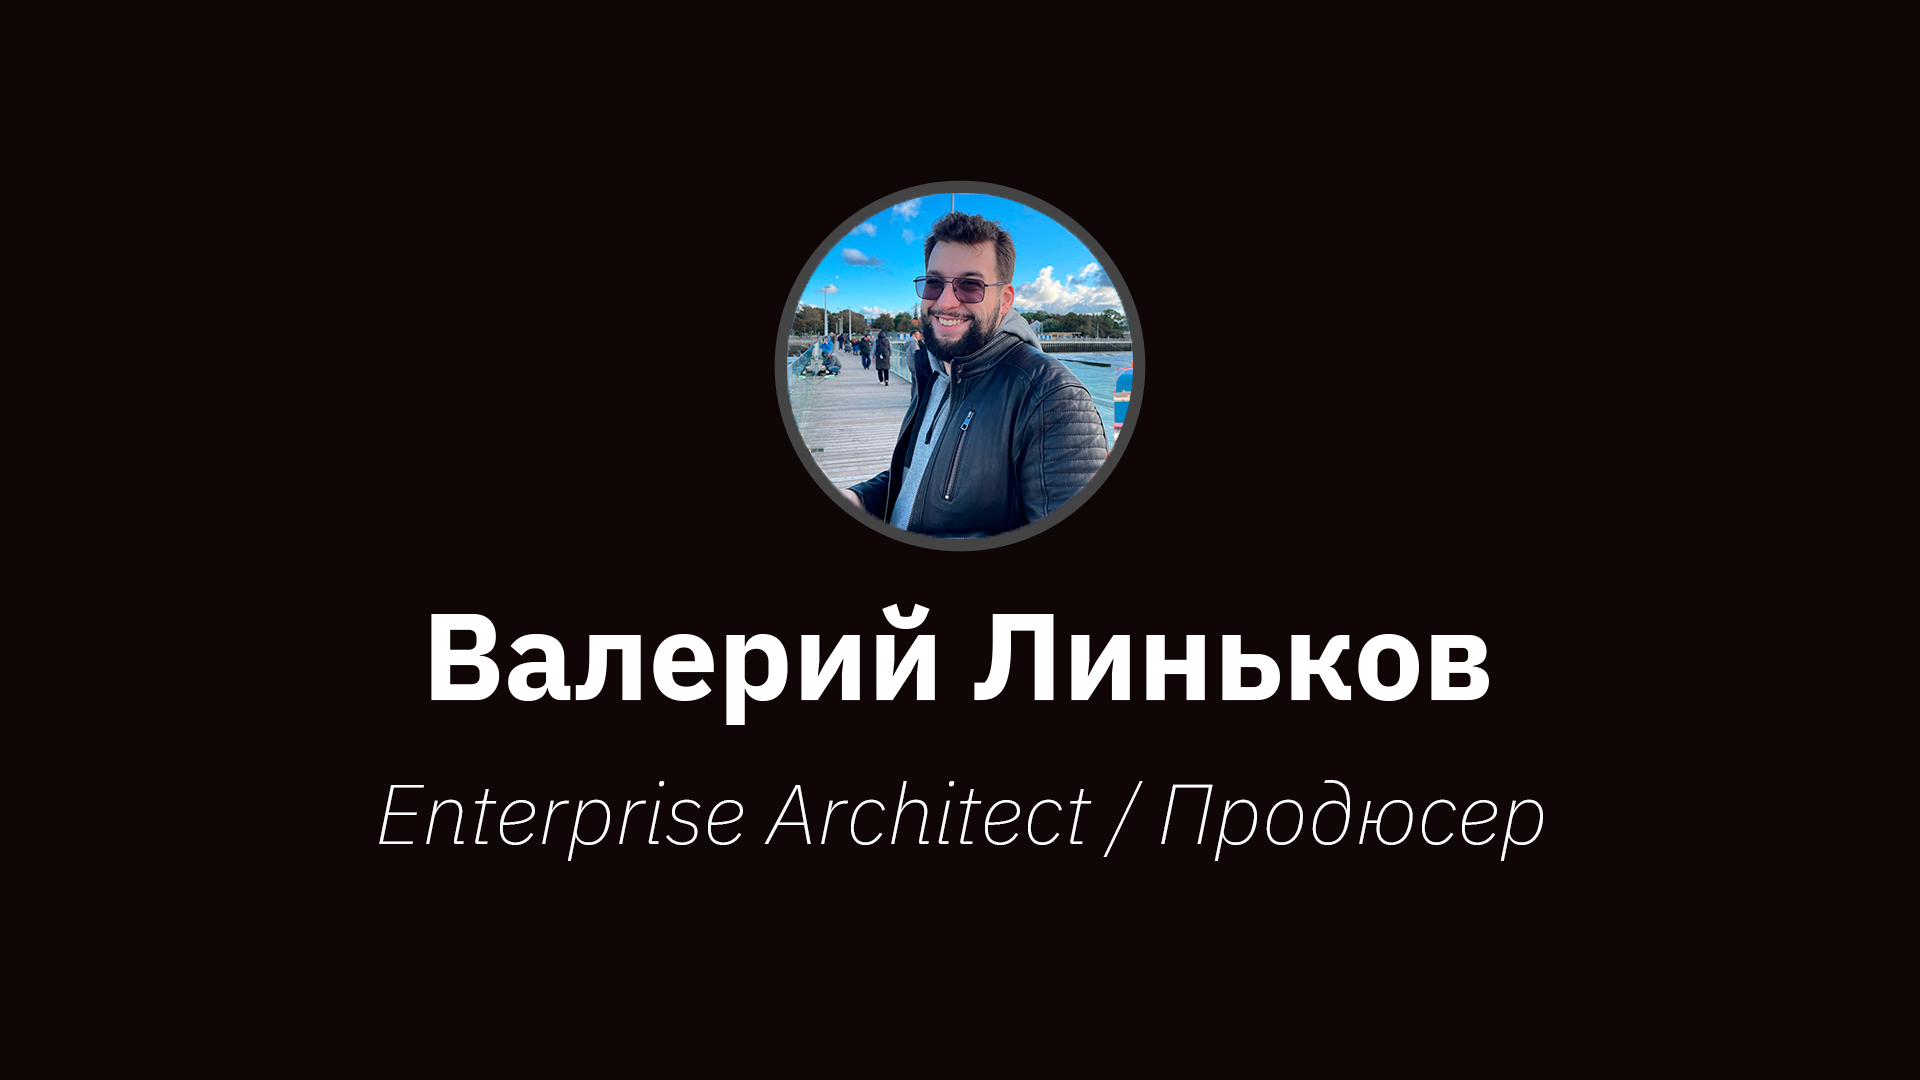
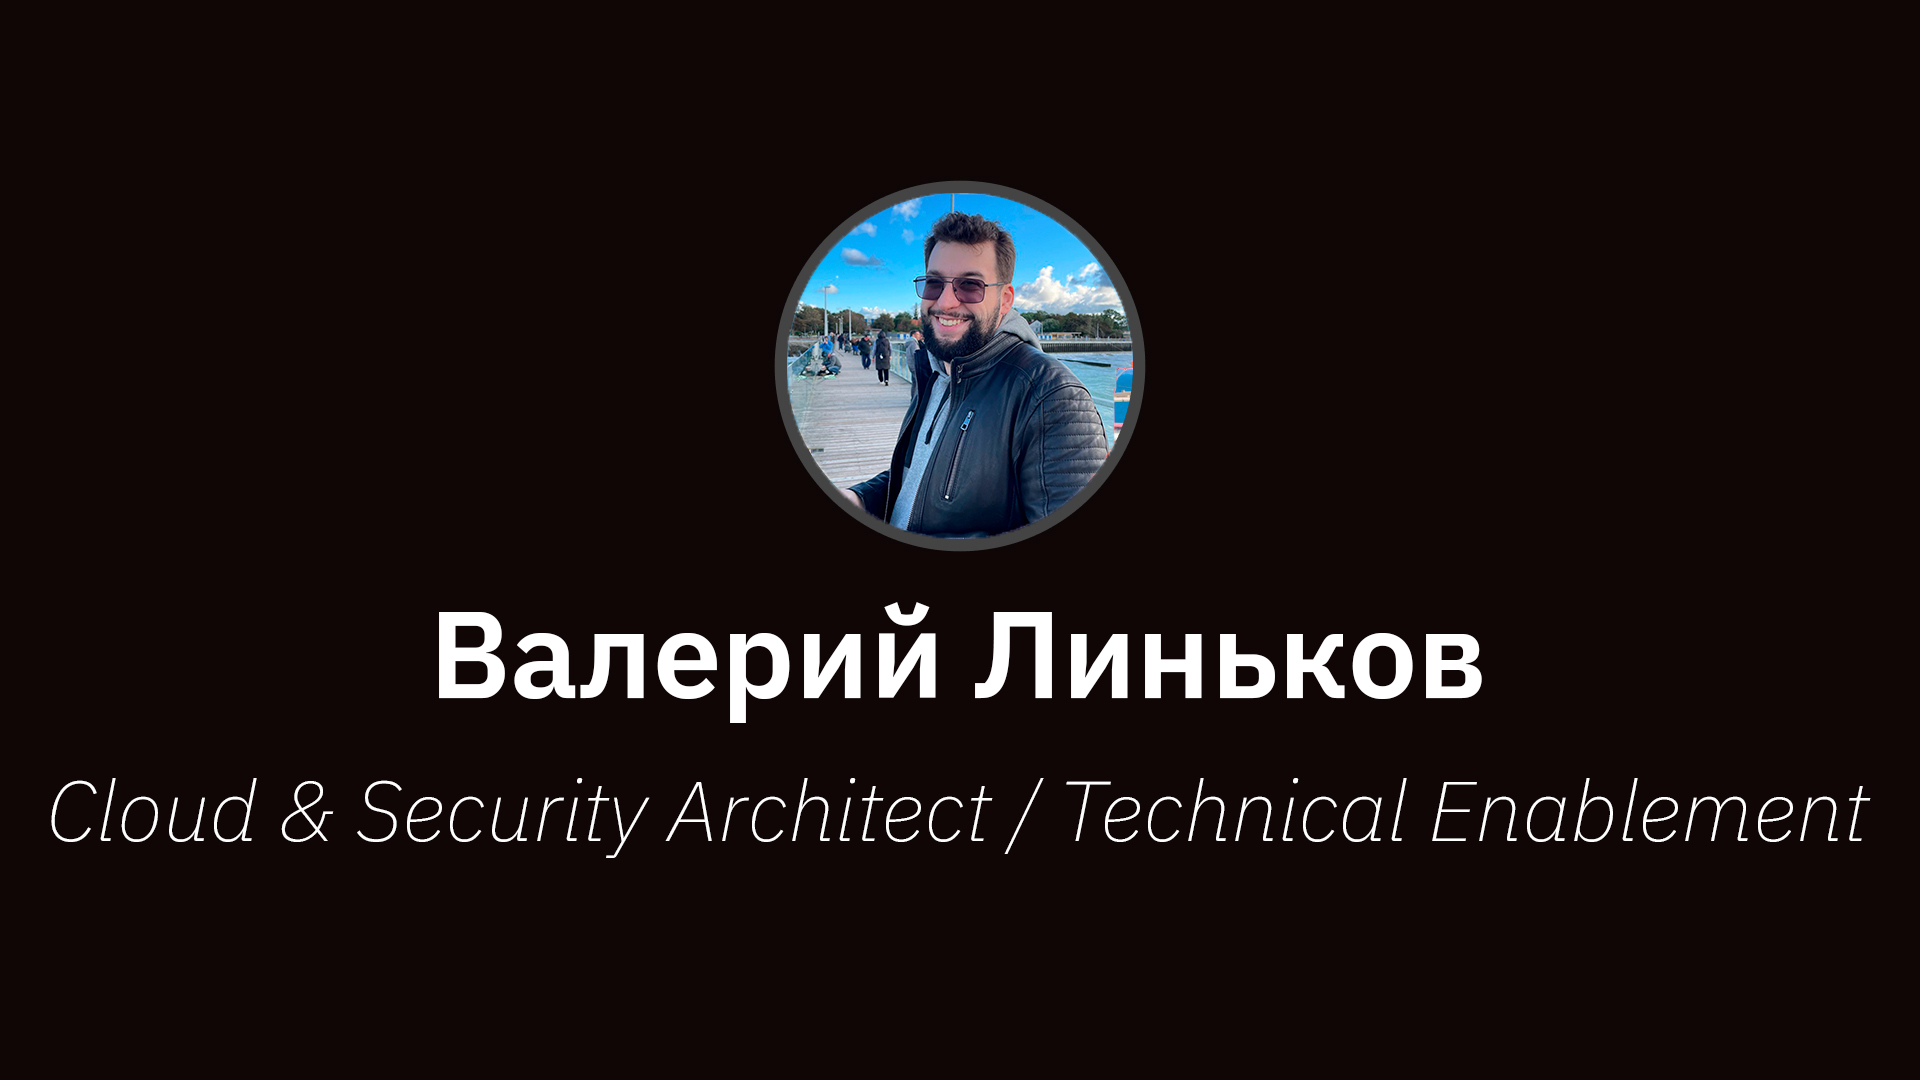
Some more fix

diff --git a/src/lib/constants/profile.ts b/src/lib/constants/profile.ts
@@ -5,10 +5,10 @@ export const PROFILE_INFO = {
   displayName: "Валерий Линьков",
   email: "valerylinkov2504@yandex.ru",
   about: `
-  Проектирую облачную инфраструктуру и системы безопасности и помогаю командам внедрять их в работу — так, чтобы решения были поняты, приняты и поддерживались в реальной эксплуатации.
-  
-  Работаю с архитектурой, аутентификацией и управлением доступами, а также с инженерными процессами и обучением команд. Моя зона — сложные системы, рост, требования к безопасности и ситуации, где «формально всё есть, но на практике не работает».
-  
+  Проектирую облачную инфраструктуру и системы безопасности. Помогаю командам внедрять их в работу так, чтобы решения были поняты, приняты и поддерживались в реальной эксплуатации.
+
+  Работаю с архитектурой, аутентификацией и управлением доступами, а также с инженерными процессами и обучением команд. Моя зона — настроить систему так, чтобы с ней было легко и понятно работать и чтобы она соответствовала всем требованиям безопасности и масштабируемости.
+
   Занимаюсь архитектурными аудитами, консалтингом и technical enablement: объясняю решения, выстраиваю подходы и помогаю командам работать с архитектурой и безопасностью осознанно. Не беру 24/7 эксплуатацию и “починку по тикетам”.
 `,
 } as const;
